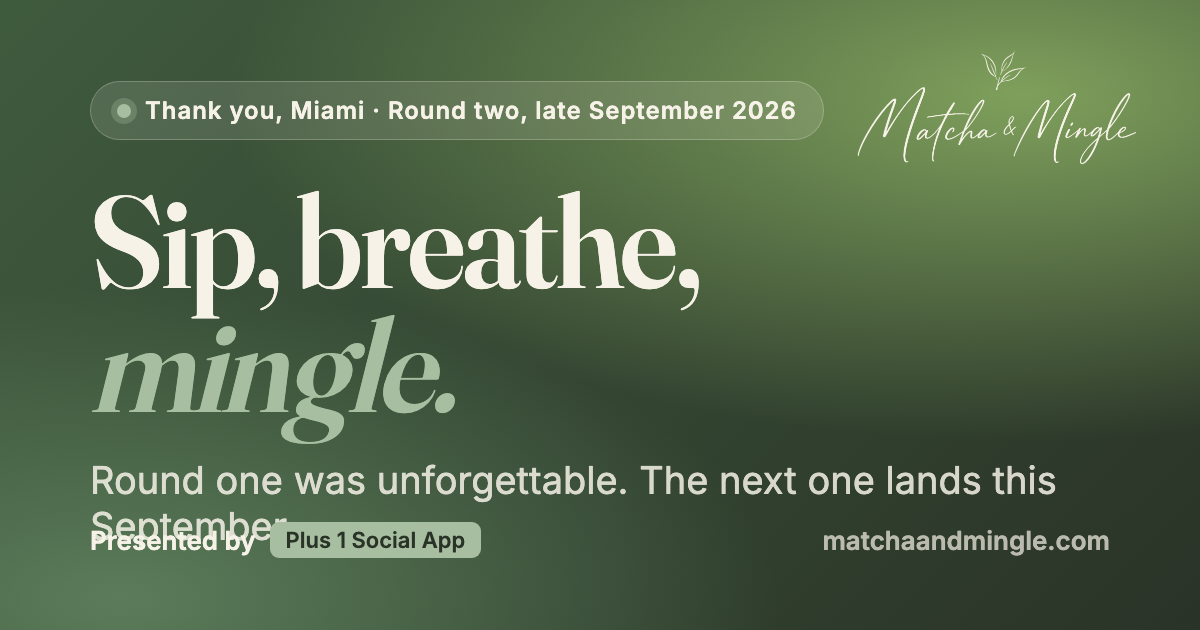
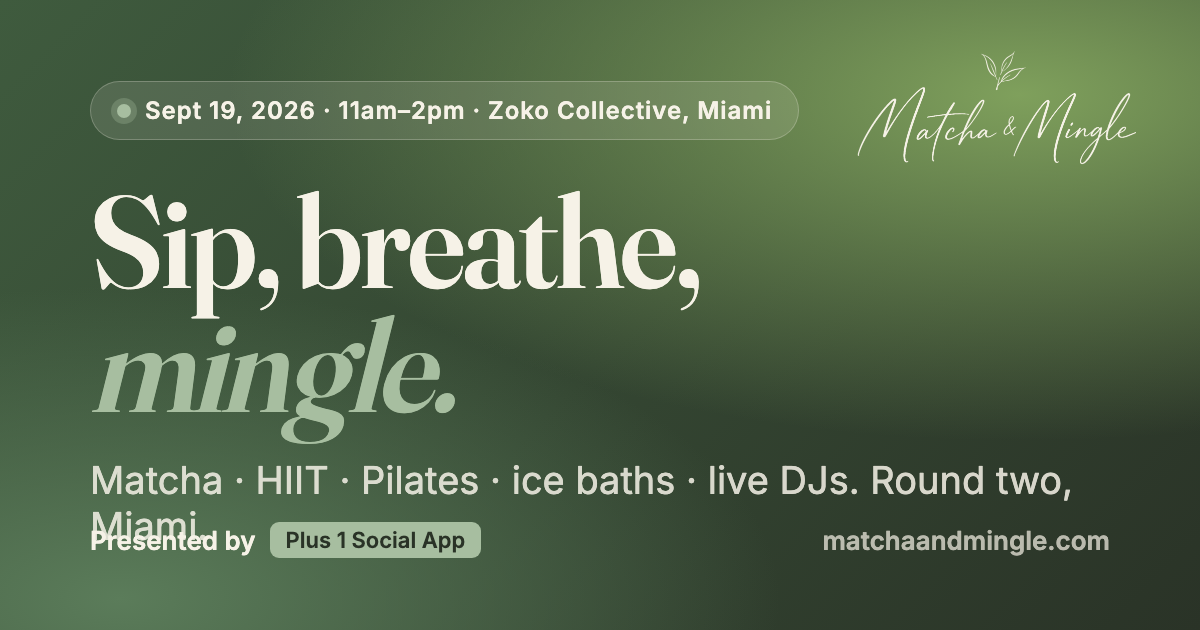
Round two details: Sept 19 at Zoko Collective, new lineup (warm-up/HIIT/Pilates, DJs Felipe & Sonia)

Changed region(s): [[0.0617, 0.7238, 0.8942, 0.7841], [0.1233, 0.1508, 0.6783, 0.2111], [0.0617, 0.8143, 0.2467, 0.8746]]

diff --git a/index.html b/index.html
@@ -4,22 +4,22 @@
 <meta charset="UTF-8" />
 <meta name="viewport" content="width=device-width, initial-scale=1.0" />
 <title>Matcha &amp; Mingle · Wellness, Reimagined</title>
-<meta name="description" content="Matcha & Mingle is a modern wellness event series: wellness activations, art exhibits, healthy tastings, and live DJ sets. Presented by the Plus 1 Social App. Round two lands late September 2026 — join the list. Join the list." />
+<meta name="description" content="Matcha & Mingle is a modern wellness event series: wellness activations, art exhibits, healthy tastings, and live DJ sets. Presented by the Plus 1 Social App. See you September 19, 2026 in Miami. Join the list." />
 <link rel="canonical" href="https://matchaandmingle.com/" />
 
 <!-- Open Graph / social -->
 <meta property="og:type" content="website" />
 <meta property="og:title" content="Matcha & Mingle · Wellness, Reimagined" />
-<meta property="og:description" content="Wellness activations, art, healthy tastings & live DJ sets. Presented by the Plus 1 Social App. Round two lands late September 2026 — join the list." />
+<meta property="og:description" content="Wellness activations, art, healthy tastings & live DJ sets. Presented by the Plus 1 Social App. See you September 19, 2026 in Miami." />
 <meta property="og:url" content="https://matchaandmingle.com/" />
 <meta property="og:image" content="https://matchaandmingle.com/og-image.png" />
 <meta property="og:image:width" content="1200" />
 <meta property="og:image:height" content="630" />
 <meta property="og:image:type" content="image/png" />
-<meta property="og:image:alt" content="Matcha & Mingle · Sip, breathe, mingle. Round two · Late September 2026." />
+<meta property="og:image:alt" content="Matcha & Mingle · Sip, breathe, mingle. September 19, 2026 · Zoko Collective, Miami." />
 <meta name="twitter:card" content="summary_large_image" />
 <meta name="twitter:title" content="Matcha & Mingle · Wellness, Reimagined" />
-<meta name="twitter:description" content="Wellness activations, art, healthy tastings & live DJ sets. Presented by the Plus 1 Social App. Round two lands late September 2026 — join the list." />
+<meta name="twitter:description" content="Wellness activations, art, healthy tastings & live DJ sets. Presented by the Plus 1 Social App. See you September 19, 2026 in Miami." />
 <meta name="twitter:image" content="https://matchaandmingle.com/og-image.png" />
 
 <!-- Logo favicon -->
@@ -308,9 +308,9 @@
   <div class="blob a"></div>
   <div class="blob b"></div>
   <div class="wrap">
-    <div class="hero-badge"><span class="dot"></span> We're back · Round two, late September 2026</div>
+    <div class="hero-badge"><span class="dot"></span> Round two · September 19, 2026 · 11am–2pm</div>
     <h1>Sip, breathe,<br><em>mingle.</em></h1>
-    <p class="lede">Thank you, Miami — our first gathering on August 1 was everything we hoped for. Round two lands late September. Get on the list for first access.</p>
+    <p class="lede">We're back, Miami. Join us September 19 at Zoko Collective for matcha, movement, and good company — chill vibes, great workouts, and the easiest way to meet new people.</p>
     <form class="hero-form" name="updates" method="POST" data-netlify="true" netlify-honeypot="bot-field" action="success.html">
       <input type="hidden" name="form-name" value="updates" />
       <p class="hp"><label>Don't fill this out: <input name="bot-field" /></label></p>
@@ -331,7 +331,7 @@
     <div class="thankyou-card reveal">
       <span class="eyebrow">Thank you, Miami</span>
       <h2>Our first Matcha &amp; Mingle was one for the books.</h2>
-      <p>On August 1 you showed up, sipped, stretched, and mingled with us at Arena Wynwood — and it was everything we hoped for and more. Huge thank you to everyone who came out, and to our incredible partners who made it happen. This is just the beginning: round two lands late September. 🍵</p>
+      <p>On August 1 you showed up, sipped, stretched, and mingled with us at Arena Wynwood — and it was everything we hoped for and more. Huge thank you to everyone who came out, and to our incredible partners who made it happen. This is just the beginning: round two lands September 19. 🍵</p>
     </div>
   </div>
 </section>
@@ -409,24 +409,24 @@
     </div>
     <div class="cards">
       <div class="card reveal">
-        <div class="ico">🏃</div>
+        <div class="ico">🧘</div>
         <h3>Movement Classes</h3>
-        <p>Sweat through a HIIT class, then ground down with Mat Pilates. Every class is included with your ticket.</p>
+        <p>Ease in with a warm-up &amp; stretch, fire up with HIIT, and flow through Pilates — all included.</p>
       </div>
       <div class="card reveal">
         <div class="ico">🍵</div>
-        <h3>Matcha &amp; Tastings</h3>
-        <p>An open matcha bar from 12–1pm by Honey Veil, plus complimentary tequila tastings throughout the event.</p>
+        <h3>Matcha &amp; Ice Baths</h3>
+        <p>Free matcha to sip and cold-plunge ice baths to recover, plus giveaways throughout the day.</p>
       </div>
       <div class="card reveal">
         <div class="ico">🎧</div>
         <h3>Live DJ Sets</h3>
-        <p>Live sets from DJ Scholar and DJ Joc Havana keeping the energy high from open to close.</p>
+        <p>Chill vibes all afternoon from DJ Felipe and Sonia.</p>
       </div>
       <div class="card reveal">
-        <div class="ico">🎨</div>
-        <h3>Art &amp; Community</h3>
-        <p>Local art, good people, and the kind of connection that makes a wellness day feel like a celebration.</p>
+        <div class="ico">🤝</div>
+        <h3>Meet &amp; Mingle</h3>
+        <p>The easiest way to meet new people while getting a great workout in.</p>
       </div>
     </div>
   </div>
@@ -437,7 +437,7 @@
     <div class="section-head reveal">
       <span class="eyebrow">Activations &amp; Partners</span>
       <h2>Powered by brands we love.</h2>
-      <p>Most activations take place on the indoor soccer field, so you stay cool and comfortable the whole time.</p>
+      <p>The brands bringing activations, recovery, and giveaways to the floor.</p>
     </div>
     <div class="cards">
       <a class="card reveal" href="https://www.tesla.com/findus/location/store/coralgables" target="_blank" rel="noopener">
@@ -498,20 +498,20 @@
   <div class="wrap">
     <div class="tickets-card reveal">
       <div class="tickets-info">
-        <span class="eyebrow">Round Two</span>
-        <h2>The next one drops late September.</h2>
-        <p style="color:var(--ink-soft);margin:.4rem 0 1.3rem">If round one was any hint, you won't want to miss it. Here's the kind of thing to expect:</p>
+        <span class="eyebrow">What's included</span>
+        <h2>One ticket. The whole vibe.</h2>
         <ul class="includes">
-          <li>An open matcha bar</li>
-          <li>Movement classes to sweat and stretch</li>
-          <li>Tequila tastings</li>
-          <li>Live DJ sets all afternoon</li>
+          <li>Warm-up &amp; stretch, HIIT, and Pilates classes</li>
+          <li>Free matcha</li>
+          <li>Ice baths &amp; recovery</li>
+          <li>Giveaways throughout the day</li>
+          <li>Live sets from DJ Felipe &amp; Sonia</li>
         </ul>
-        <p class="venue-note">📍 New venue &amp; date announced soon.</p>
+        <p class="venue-note">📍 <a href="https://maps.google.com/?q=Zoko+Collective,+728+NW+29th+St,+Miami,+FL+33127" target="_blank" rel="noopener" class="venue-link">Zoko Collective · 728 NW 29th St, Miami, FL 33127</a></p>
       </div>
       <div class="tickets-price">
-        <div class="price">Sept</div>
-        <p class="price-sub">Round two · Late September 2026</p>
+        <div class="price" style="font-size:3.4rem">Sept 19</div>
+        <p class="price-sub">11am–2pm · Zoko Collective, Miami</p>
         <a href="#signup" class="btn big ticket-btn">Join the list for first access</a>
         <p class="price-foot">Plus 1 members get early access &amp; 20% off</p>
       </div>
@@ -546,18 +546,18 @@
     <div class="grid">
       <div class="detail reveal">
         <span class="eyebrow">When</span>
-        <h3>Late September</h3>
-        <p>2026 · Date announced soon</p>
+        <h3>September 19</h3>
+        <p>2026 · 11am–2pm</p>
       </div>
       <div class="detail reveal">
         <span class="eyebrow">Where</span>
-        <h3>Miami</h3>
-        <p>Venue announced soon</p>
+        <h3>Zoko Collective</h3>
+        <p>728 NW 29th St, Miami, FL 33127</p>
       </div>
       <div class="detail reveal">
         <span class="eyebrow">Tickets</span>
-        <h3>Drop soon</h3>
-        <p>Join the list for first access</p>
+        <h3>Join the list</h3>
+        <p>For first access &amp; updates</p>
       </div>
       <div class="detail reveal">
         <span class="eyebrow">Who</span>
